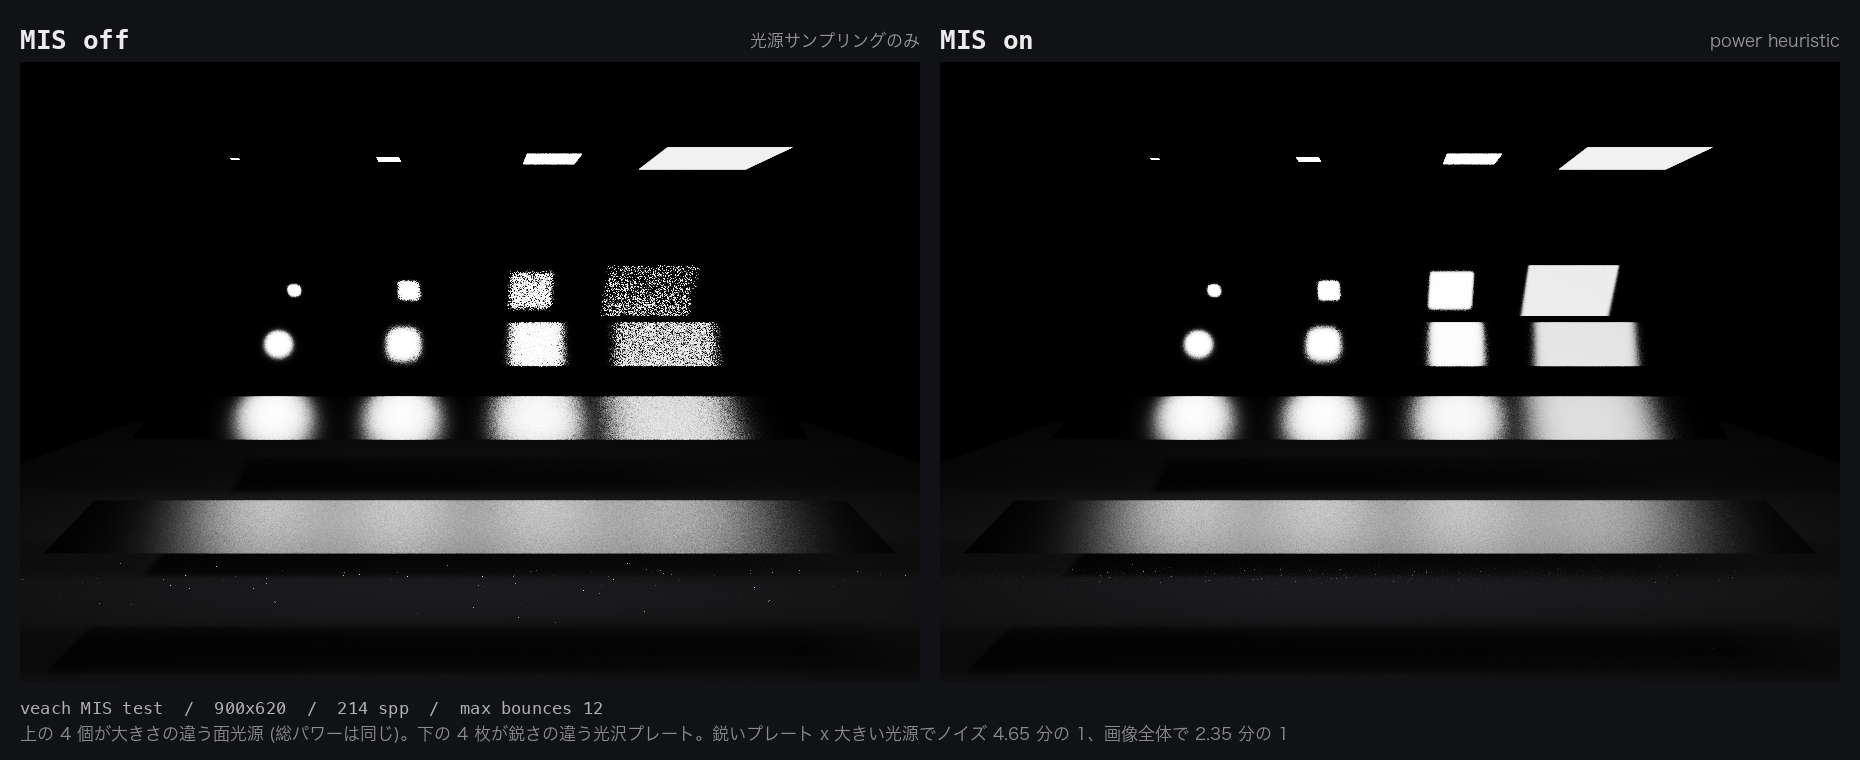
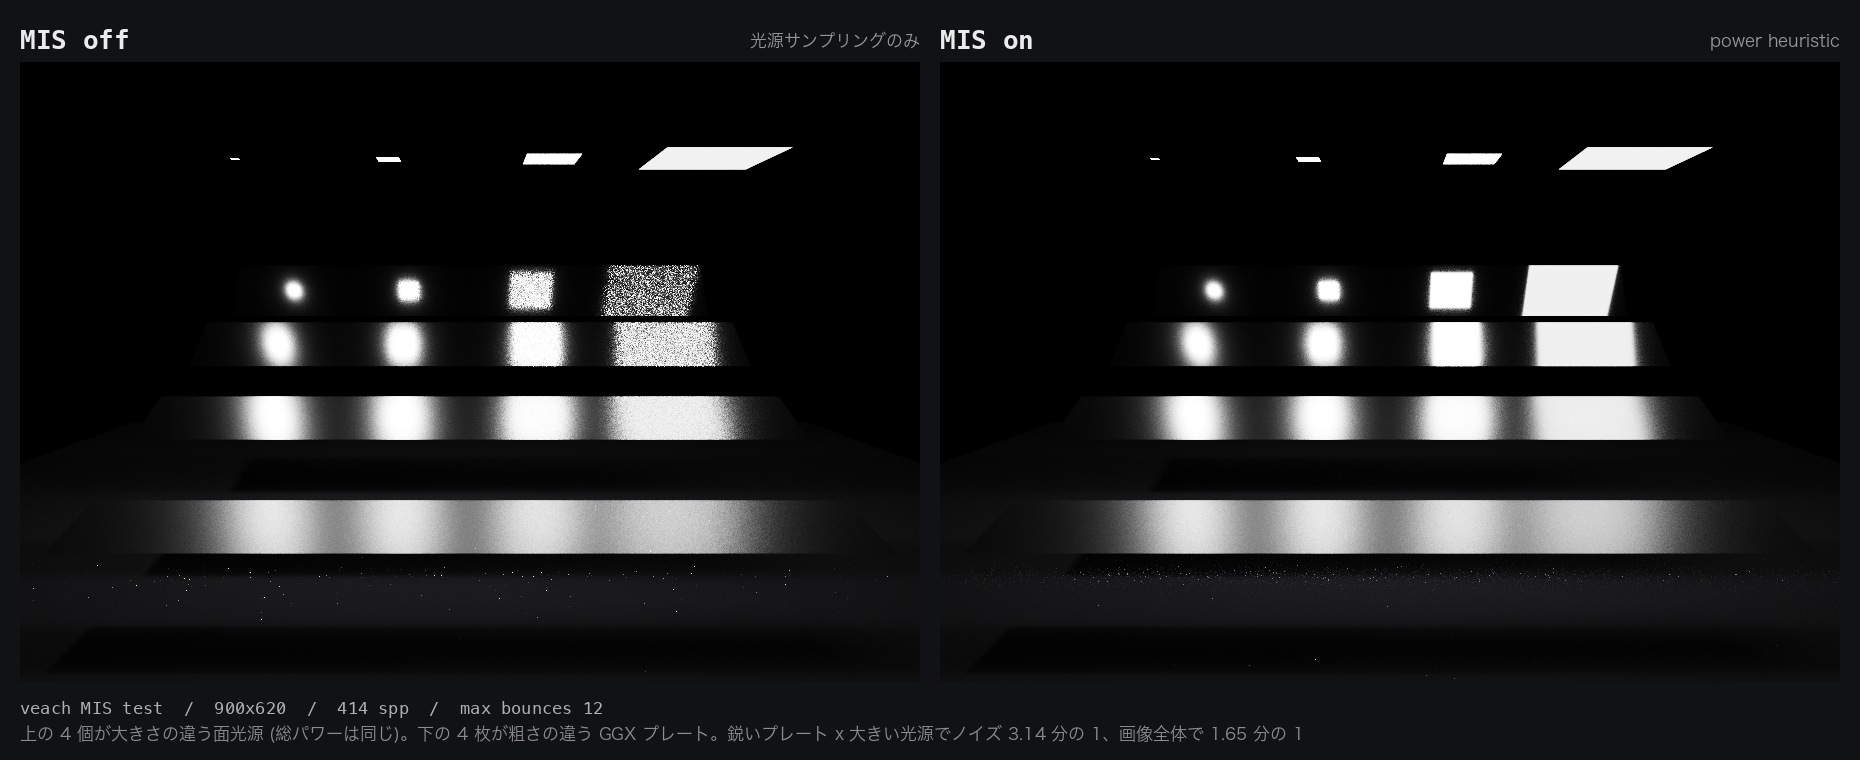
feat: GGX マイクロファセット BRDF に置き換える
metal (reflect + fuzz) と正規化 Phong の光沢面を、GGX + Smith +
Schlick Fresnel の 1 つのマテリアルに統合した。

これまで metal は fuzz を持つのにデルタ分布として扱っていたため、
ざらついた金属が大きい光源を見ている状況で NEE も MIS も効かなかった。
GGX は BRDF と pdf を任意方向について評価できるので、この不整合が
解消し、金属も MIS の対象になる。

サンプリングは Heitz 2018 の可視法線 (VNDF) サンプリング。pdf は
G1(v) * D / (4 n.v) に整理でき、重みは F * G1(l) になる。

GGX は Phong より裾が長いので、見た目が揃うようシーン側の粗さは
低めに取り直した。veach シーンで純 BSDF サンプリングと NEE+MIS が
同じ絵に収束すること (サンプルを増やすほど差が単調に縮むこと) を
確認済み。414 spp での MIS の効果は鋭いプレートで 4.48 倍。

diff --git a/src/scene.ts b/src/scene.ts
@@ -2,47 +2,40 @@ export type Vec3 = [number, number, number];
 
 export const MATERIAL = {
   lambert: 0,
-  metal: 1,
+  /** GGX マイクロファセット (導体) */
+  ggx: 1,
   dielectric: 2,
   emissive: 3,
-  glossy: 4,
 } as const;
 
 export type MaterialKind = (typeof MATERIAL)[keyof typeof MATERIAL];
 
 export interface Material {
   kind: MaterialKind;
-  /** lambert / metal のアルベド。dielectric では減衰色として使う */
+  /** lambert の反射率 / ggx の垂直入射反射率 F0 / dielectric の減衰色 */
   albedo: Vec3;
-  /** metal のざらつき (0 で鏡面) */
-  fuzz?: number;
+  /** ggx の粗さ (知覚的)。0 に近いほど鏡面 */
+  roughness?: number;
   /** dielectric の屈折率 */
   ior?: number;
   /** emissive の放射輝度 */
   emission?: Vec3;
-  /** glossy (Phong) ローブの鋭さ。大きいほど鏡面に近い */
-  exponent?: number;
 }
 
 export const lambert = (albedo: Vec3): Material => ({
   kind: MATERIAL.lambert,
   albedo,
 });
-export const metal = (albedo: Vec3, fuzz = 0): Material => ({
-  kind: MATERIAL.metal,
+/** GGX 導体。roughness が小さいほど鏡面に近い */
+export const ggx = (albedo: Vec3, roughness: number): Material => ({
+  kind: MATERIAL.ggx,
   albedo,
-  fuzz,
+  roughness,
 });
 export const dielectric = (ior = 1.5): Material => ({
   kind: MATERIAL.dielectric,
   albedo: [1, 1, 1],
   ior,
-});
-/** 正規化 Phong の光沢面。exponent が大きいほど鏡面に近い */
-export const glossy = (albedo: Vec3, exponent: number): Material => ({
-  kind: MATERIAL.glossy,
-  albedo,
-  exponent,
 });
 export const emissive = (emission: Vec3): Material => ({
   kind: MATERIAL.emissive,
@@ -142,7 +135,7 @@ function buildSpheresScene(): Scene {
     { center: [0, -1000, 0], radius: 1000, material: lambert([0.5, 0.5, 0.5]) },
     { center: [-2.6, 1, 0], radius: 1, material: dielectric(1.5) },
     { center: [0, 1, 0], radius: 1, material: lambert([0.55, 0.25, 0.18]) },
-    { center: [2.6, 1, 0], radius: 1, material: metal([0.7, 0.6, 0.5], 0.02) },
+    { center: [2.6, 1, 0], radius: 1, material: ggx([0.7, 0.6, 0.5], 0.06) },
   ];
 
   // 周りに小球を散らす
@@ -171,9 +164,9 @@ function buildSpheresScene(): Scene {
         spheres.push({
           center,
           radius: 0.2,
-          material: metal(
+          material: ggx(
             [0.5 + 0.5 * rand(), 0.5 + 0.5 * rand(), 0.5 + 0.5 * rand()],
-            0.3 * rand(),
+            0.1 + 0.4 * rand(),
           ),
         });
       } else {
@@ -295,17 +288,18 @@ function buildVeachScene(): Scene {
     ]),
   });
 
-  const plateSpec: { center: Vec3; exponent: number }[] = [
-    { center: [0, 0.4, -3.2], exponent: 50 },
-    { center: [0, 1.5, -0.7], exponent: 300 },
-    { center: [0, 2.6, 1.8], exponent: 1800 },
-    { center: [0, 3.7, 4.3], exponent: 9000 },
+  // GGX は Phong より裾が長いので、見た目が揃うよう粗さは低めに取る
+  const plateSpec: { center: Vec3; roughness: number }[] = [
+    { center: [0, 0.4, -3.2], roughness: 0.34 },
+    { center: [0, 1.5, -0.7], roughness: 0.2 },
+    { center: [0, 2.6, 1.8], roughness: 0.11 },
+    { center: [0, 3.7, 4.3], roughness: 0.055 },
   ];
 
   const quads: Quad[] = [
     // 床 (暗めの拡散面)
     { q: [-14, -1.6, -9], u: [28, 0, 0], v: [0, 0, 26], material: lambert([0.16, 0.16, 0.18]) },
-    ...plateSpec.map((p) => plate(p.center, 11, 1.35, glossy([0.95, 0.95, 0.95], p.exponent))),
+    ...plateSpec.map((p) => plate(p.center, 11, 1.35, ggx([0.95, 0.95, 0.95], p.roughness))),
     lamp(4.9, 0.15, 9),
     lamp(1.7, 0.45, 9),
     lamp(-1.7, 1.1, 9),
@@ -362,14 +356,13 @@ function writeMaterial(
   f32[o + 0] = m.albedo[0];
   f32[o + 1] = m.albedo[1];
   f32[o + 2] = m.albedo[2];
-  f32[o + 3] = m.fuzz ?? 0;
+  f32[o + 3] = m.roughness ?? 0;
   const e = m.emission ?? [0, 0, 0];
   f32[o + 4] = e[0];
   f32[o + 5] = e[1];
   f32[o + 6] = e[2];
   f32[o + 7] = m.ior ?? 1.5;
   u32[o + 8] = m.kind;
-  f32[o + 9] = m.exponent ?? 1;
 }
 
 /** storage buffer にそのまま書ける形へパックする */

diff --git a/README.md b/README.md
@@ -7,7 +7,7 @@
 WebGPU 対応ブラウザ (Chrome / Edge 113+, Safari 26+) が必要です。非対応の環境では画面にエラーが出ます。
 
 - compute shader (WGSL) で 1 パス、accumulation buffer にプログレッシブ蓄積
-- プリミティブは球と quad (平行四辺形) / Lambert・Metal・Dielectric・正規化 Phong の光沢面・面光源
+- プリミティブは球と quad (平行四辺形) / Lambert・GGX マイクロファセット (導体)・Dielectric・面光源
 - シーンは UI から切り替え。RTIOW の定番シーン、Cornell box、Veach の MIS テストシーンを同梱
 - NEE (next event estimation) で拡散面から面光源を直接サンプル。Cornell box では同じノイズに落ちるまでの spp が 1/30 ほどになる
 - MIS (power heuristic) で光源サンプリングと BSDF サンプリングを合成。光源と受光面が近接平行な箇所のスパイクが消える
